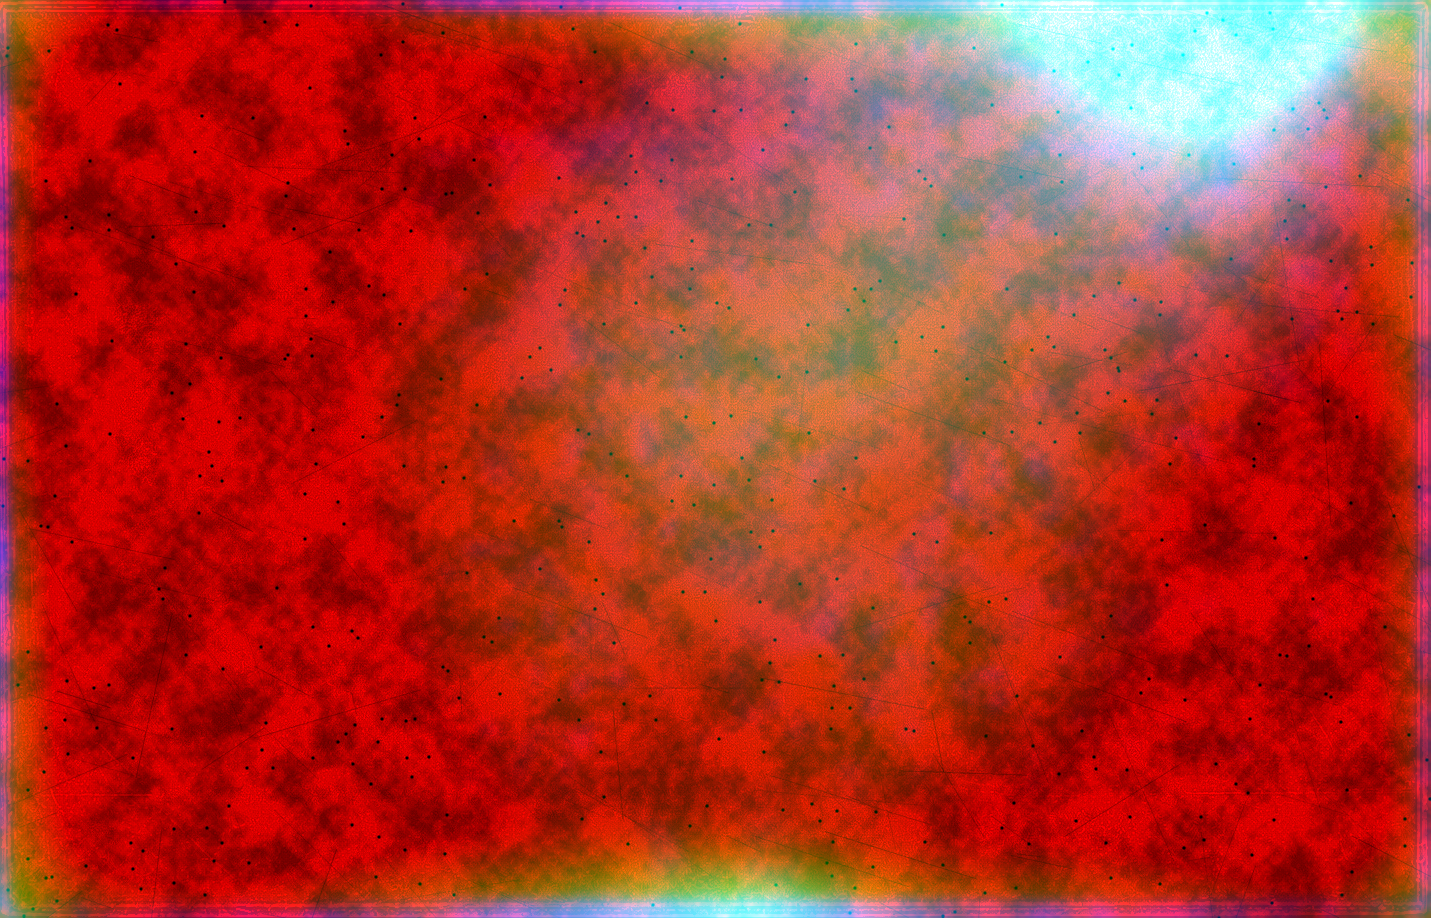
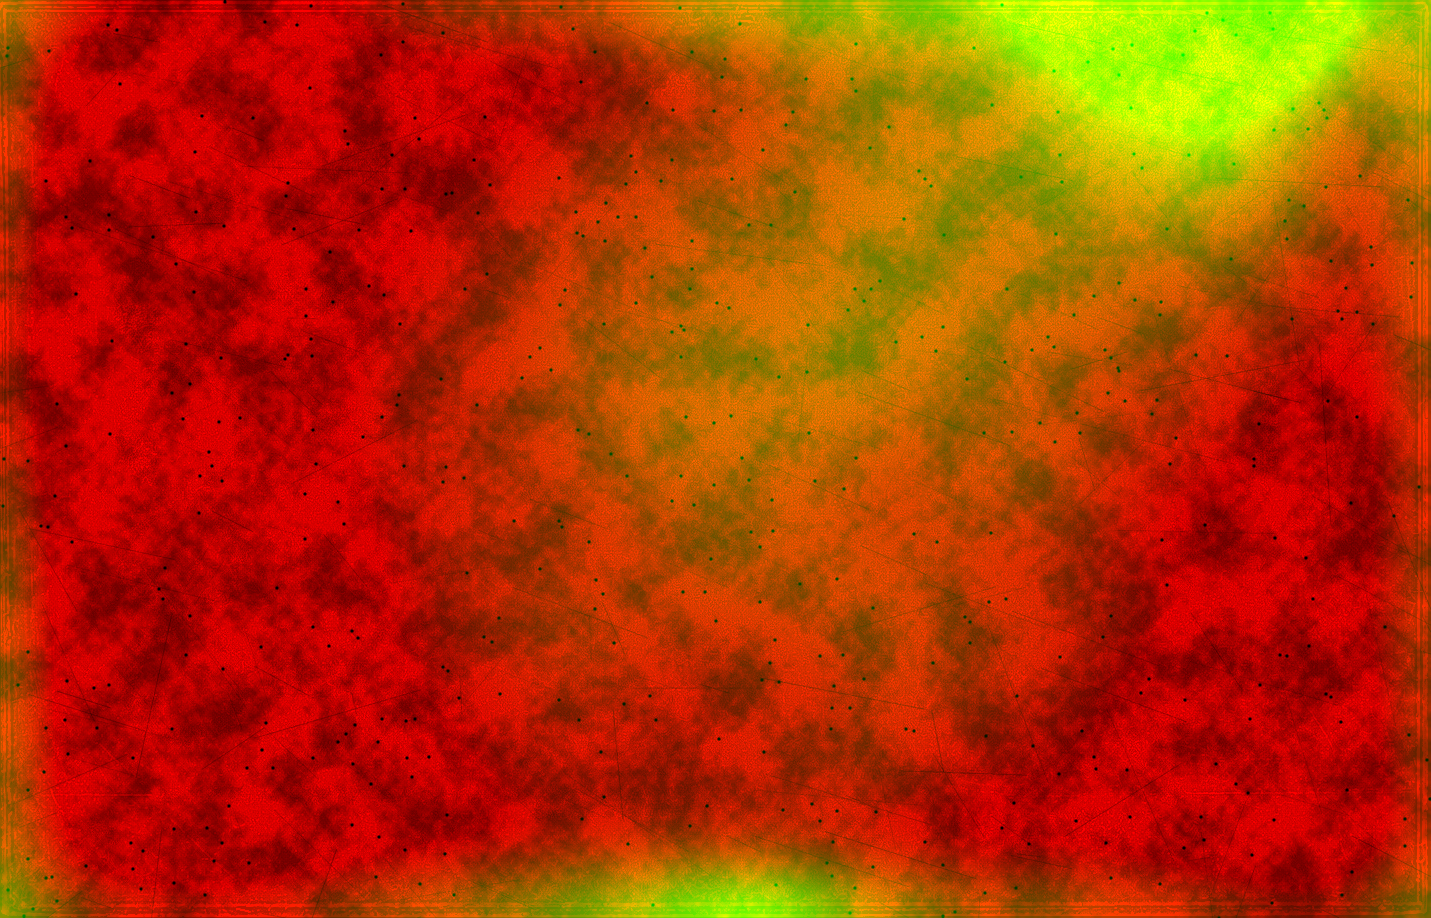
Face: clean brushed silver with a soft sheen, no stains
The plate no longer carries the house card's blotches, and the warm light-leak
channel is emptied for this face, so nothing browns the metal.

Claude-Session: https://claude.ai/code/session_01XTwSiXDR1RaHdqvhykithn

diff --git a/Source/PluginEditor.cpp b/Source/PluginEditor.cpp
@@ -15,7 +15,7 @@ namespace
         t.ink = juce::Colour (20, 20, 22);
         t.accent = kAccent;
         t.base[0] = 0.99f; t.base[1] = 1.0f; t.base[2] = 1.02f;   // a cool, clean silver
-        t.leak[0] = 1.0f; t.leak[1] = 0.95f; t.leak[2] = 0.88f;   // the light leaks barely warm it
+        t.leak[0] = 1.0f; t.leak[1] = 1.0f; t.leak[2] = 1.0f;     // no warm leaks: the sheen in the plate is the light
         return t;
     }
 

diff --git a/README.md b/README.md
@@ -71,7 +71,7 @@ What gets rewired is decided by the seed, so turning the knob is repeatable; THR
 - A note that starts from silence starts its operators in phase, so attacks are consistent, the way FM players expect.
 - **MIDI**: notes, pitch bend (2 semitones), mod wheel (vibrato), sustain pedal, all notes off.
 - Factory presets, all original: E PIANO 02, LATE NIGHT BASS, GLASS HOUSE, BRASS 87, MARIMBA MALLET, ORGAN STOP, CLAVINETTISH, FROZEN PAD, WOODBLOCK, FEEDBACK LEAD, SPANNER IN THE WORKS, DROPPED THE TRAY, FM HELLSCAPE, RUBBISH DAY, WHERE DID THAT COME FROM.
-- The face is the manners! card inverted: black print on brushed silver (`Resources/plate.jpg`, generated from the house card's wear so the grime matches the family), with green LCDs.
+- The face is the manners! card inverted: black print on brushed silver (`Resources/plate.jpg`) with a soft diagonal sheen and only the faintest hairlines of wear, and green LCDs. Its `Resources/maps.png` has the warm light-leak channel emptied, so nothing browns the metal.
 - Font: Barlow Semi Condensed, SIL Open Font License (see `Resources/BarlowSemiCondensed-OFL.txt`).
 - The shared face code lives in `Source/manners/`, copied from JX-PP unchanged.
 
